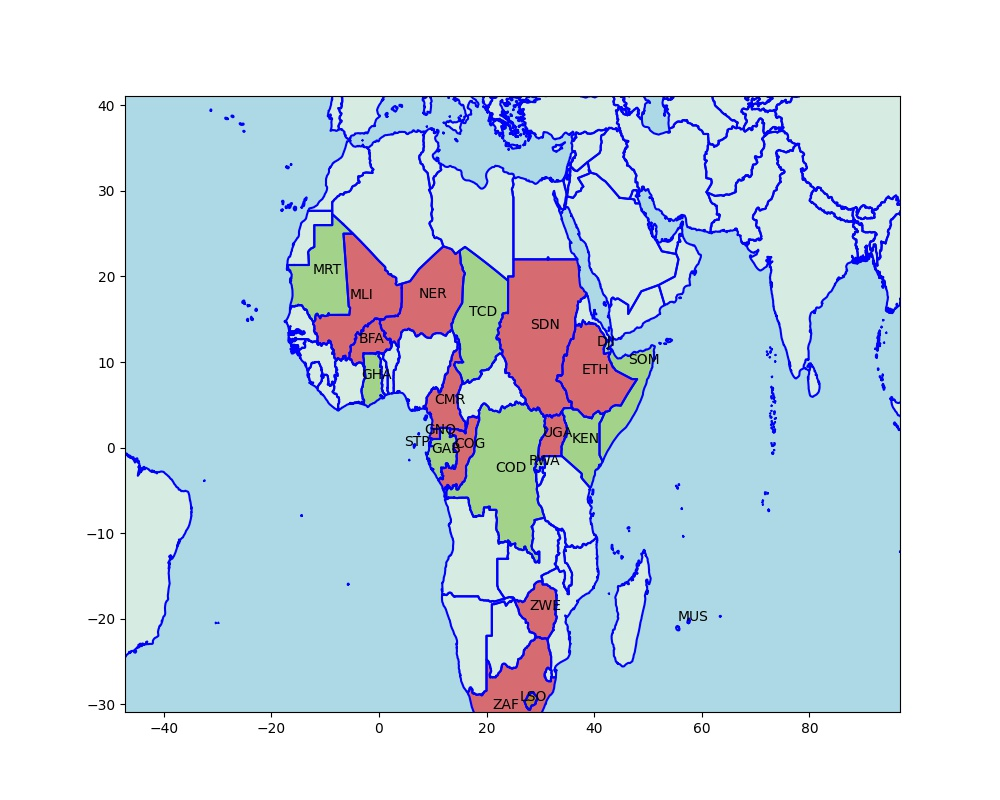
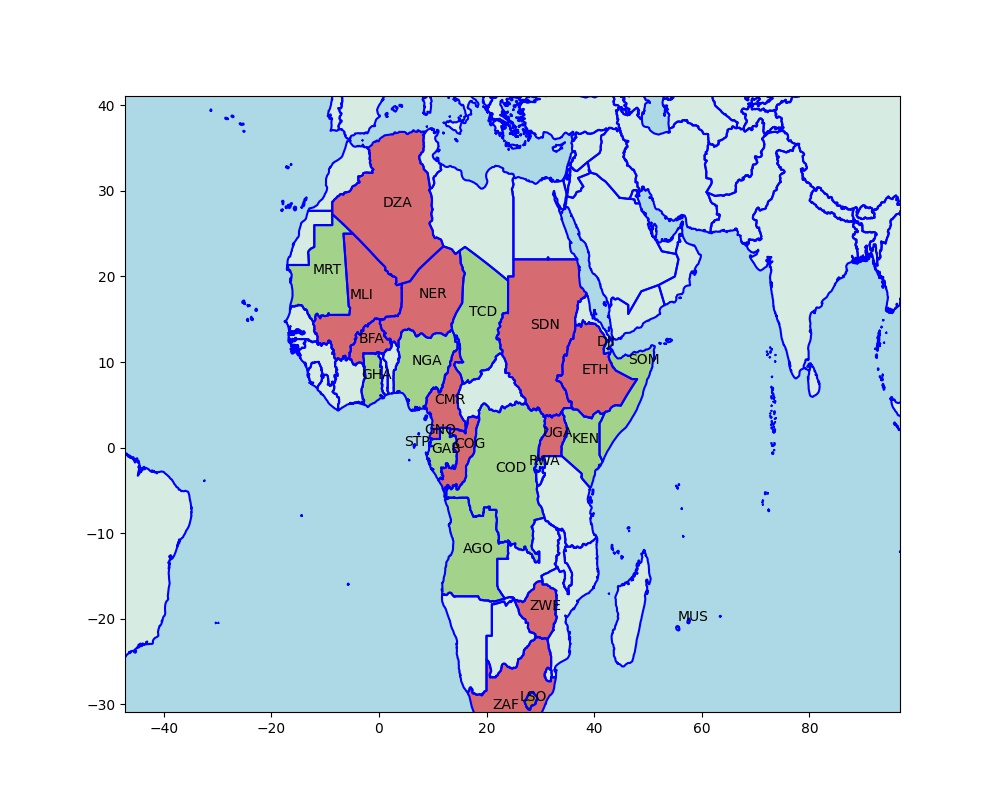
--

Changed region(s): [[0.31, 0.1562, 0.434, 0.3438], [0.434, 0.625, 0.527, 0.75], [0.372, 0.4062, 0.465, 0.5312]]

diff --git a/en/2022/12/ru-africa.md b/en/2022/12/ru-africa.md
@@ -5,14 +5,15 @@ pro-US countries in Africa. Countries siding with RU are colored in
 red, for US green, country codes are iso3, full list is [here](https://www.iban.com/country-codes).
 
 ```python
+import util as u
 ru = ['Mali','Ethiopia','Congo','South Africa',
       'Sudan','Uganda','Zimbabwe','Burkina Faso',
       'Cameroon','Equatorial Guinea','Sao Tome and Principe',
-      'Cameroon','Niger'] 
+      'Cameroon','Niger','Algeria'] 
 
 us = ['Chad','Gabon','Ghana','Kenya','Rwanda',
        'Djibouti','Somalia', 'Democratic Republic of the Congo',
-       'Mauritania','Lesotho', 'Mauritius']
+       'Mauritania','Lesotho', 'Mauritius','Angola','Nigeria']
 
 u.plot_africa_ru_us(ru,us)
 plt.savefig('af-ru-us.jpg')   
@@ -23,11 +24,20 @@ plt.savefig('af-ru-us.jpg')
 
 ### News
 
+[11/11](https://tfiglobalnews.com/2022/11/11/angola-switched-its-ties-from-russia-to-us-and-now-its-sovereignty-is-in-danger/)
+Angola switched its ties from Russia to US
+
 [5/11](https://tfiglobalnews.com/2022/11/05/biden-confirms-that-burkina-faso-is-now-on-russias-side/) -
 Biden confirms that Burkina Faso is now on Russia’s side
 
 [17/10](https://tfiglobalnews.com/2022/10/17/pro-us-chad-has-been-surrounded-by-pro-russia-nations-and-its-surrender-is-inevitable/) -
 Pro-US Chad has been surrounded by pro-Russia nations, and its surrender is inevitable
+
+[13/10](https://www.moroccoworldnews.com/2022/10/351809/algeria-abstains-from-un-vote-condemning-russias-annexations-in-ukraine)
+Algeria Abstains From UN Vote Condemning Russia
+
+[13/10](https://www.premiumtimesng.com/news/headlines/559361-nigeria-joins-us-others-to-condemn-russian-annexation-of-ukrainian-territories.html)
+Nigeria has joined the majority of the countries of the world to condemn the Russian annexation of Ukrainian territories.
 
 [13/10](https://www.africanews.com/2022/10/13/african-countries-divided-over-un-vote-against-russia//) -
 African countries divided over UN vote against Russia
